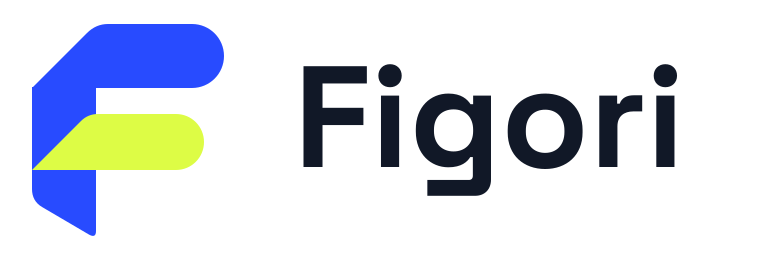
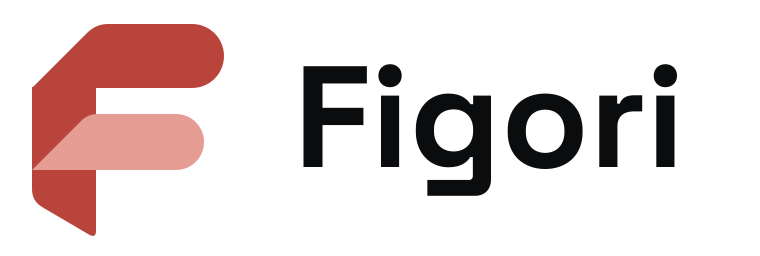
docs: refresh repository branding and identify desktop preview

Changed region(s): [[0.0303, 0.0938, 0.3026, 0.9375], [0.3934, 0.25, 0.9079, 0.7812], [0.8474, 0.25, 0.9079, 0.3438]]

diff --git a/assets/brand/generate.ts b/assets/brand/generate.ts
@@ -4,14 +4,14 @@ import { loadSync } from "opentype.js";
 import { join } from "node:path";
 const root = import.meta.dir;
 const font = loadSync(join(root, "fonts/SpaceGrotesk-Bold.otf"));
-const colors = { cobalt: "#284BFF", lime: "#DDFC45", ink: "#111827", paper: "#F7F8FC" };
+const colors = { bg: "#0b0c0d", surface: "#141618", raised: "#1c1f21", recessed: "#101112", tint: "#15100f", ac: "#b8443c", ac2: "#d9776d", ac3: "#e59c92", text: "#e8e6e3" };
 const geometry = [
   "M32 87H96V231Q96 239 88 234L42 207Q32 201 32 189Z",
   "M32 88L87 33Q96 24 108 24H192C209.7 24 224 38.3 224 56S209.7 88 192 88Z",
   "M32 170L81 121Q88 114 98 114H176C191.5 114 204 126.5 204 142S191.5 170 176 170Z",
 ];
 function mark(fills: string[]) { return geometry.map((d,i)=>`<path fill="${fills[i]}" d="${d}"/>`).join(""); }
-const primary = mark([colors.cobalt, colors.cobalt, colors.lime]);
+const primary = mark([colors.ac, colors.ac, colors.ac3]);
 function svg(width: number, height: number, body: string, label: string) {
   return `<svg xmlns="http://www.w3.org/2000/svg" width="${width}" height="${height}" viewBox="0 0 ${width} ${height}" role="img" aria-label="${label}">${body}</svg>\n`;
 }
@@ -20,25 +20,25 @@ function outline(text: string, x: number, y: number, size: number, fill: string)
 }
 async function write(name: string, data: string) { await Bun.write(join(root,name),data); }
 await write("figori-mark.svg",svg(256,256,primary,"Figori folded F"));
-await write("figori-mark-mono.svg",svg(256,256,mark(geometry.map(()=>colors.ink)),"Figori monochrome F"));
-await write("figori-mark-inverse.svg",svg(256,256,mark(geometry.map(()=>colors.paper)),"Figori inverse F"));
-await write("figori-mark-lime.svg",svg(256,256,mark(geometry.map(()=>colors.lime)),"Figori lime F"));
-await write("figori-app.svg",svg(512,512,`<rect width="512" height="512" rx="112" fill="${colors.ink}"/><g transform="translate(76 60) scale(1.4)">${primary}</g>`,"Figori app icon"));
-await write("figori-app-light.svg",svg(512,512,`<rect width="512" height="512" rx="112" fill="${colors.paper}"/><g transform="translate(76 60) scale(1.4)">${primary}</g>`,"Figori light app icon"));
-await write("figori-app-cobalt.svg",svg(512,512,`<rect width="512" height="512" rx="112" fill="${colors.cobalt}"/><g transform="translate(76 60) scale(1.4)">${mark(geometry.map(()=>colors.lime))}</g>`,"Figori high contrast app icon"));
-const word = outline("Figori",0,110,144,colors.ink);
-const wordInverse = outline("Figori",0,110,144,colors.paper);
+await write("figori-mark-mono.svg",svg(256,256,mark(geometry.map(()=>colors.bg)),"Figori monochrome F"));
+await write("figori-mark-inverse.svg",svg(256,256,mark(geometry.map(()=>colors.text)),"Figori inverse F"));
+await write("figori-mark-lime.svg",svg(256,256,mark(geometry.map(()=>colors.ac3)),"Figori light accent F"));
+await write("figori-app.svg",svg(512,512,`<rect width="512" height="512" rx="112" fill="${colors.bg}"/><g transform="translate(76 60) scale(1.4)">${primary}</g>`,"Figori app icon"));
+await write("figori-app-light.svg",svg(512,512,`<rect width="512" height="512" rx="112" fill="${colors.text}"/><g transform="translate(76 60) scale(1.4)">${primary}</g>`,"Figori light app icon"));
+await write("figori-app-cobalt.svg",svg(512,512,`<rect width="512" height="512" rx="112" fill="${colors.surface}"/><g transform="translate(76 60) scale(1.4)">${mark(geometry.map(()=>colors.ac3))}</g>`,"Figori high contrast app icon"));
+const word = outline("Figori",0,110,144,colors.bg);
+const wordInverse = outline("Figori",0,110,144,colors.text);
 await write("figori-wordmark.svg",svg(415,150,word,"Figori"));
 await write("figori-wordmark-inverse.svg",svg(415,150,wordInverse,"Figori"));
 await write("figori-lockup.svg",svg(760,256,primary+`<g transform="translate(294 57)">${word}</g>`,"Figori"));
 await write("figori-lockup-inverse.svg",svg(760,256,primary+`<g transform="translate(294 57)">${wordInverse}</g>`,"Figori"));
-const social = `<rect width="1200" height="630" fill="${colors.cobalt}"/>
-<g transform="translate(68 74) scale(.55)">${mark(geometry.map(()=>colors.lime))}</g>
-${outline("Figori",238,204,144,colors.paper)}
-${outline("Your numbers, in context.",78,340,66,colors.paper)}
-${outline("Write naturally. Calculate precisely.",82,405,36,colors.paper)}
-<rect x="80" y="484" width="580" height="60" rx="30" fill="${colors.lime}"/>
-${outline("Raycast  /  Terminal  /  Omarchy",108,524,28,colors.ink)}
-<g transform="translate(875 336) rotate(-10) scale(.9)">${mark(geometry.map(()=>colors.lime))}</g>`;
-await write("figori-social.svg",svg(1200,630,social,"Figori: numbers with context. Raycast, Terminal and Omarchy."));
-await write("palette.json",JSON.stringify({name:"Figori",colors,displayFont:"Space Grotesk",numericFont:"IBM Plex Mono",nativeUiFonts:"system defaults"},null,2)+"\n");
+const social = `<rect width="1200" height="630" fill="${colors.bg}"/>
+<g transform="translate(68 74) scale(.55)">${mark(geometry.map(()=>colors.ac3))}</g>
+${outline("Figori",238,204,144,colors.text)}
+${outline("Your numbers, in context.",78,340,66,colors.text)}
+${outline("Write naturally. Calculate precisely.",82,405,36,colors.text)}
+<rect x="80" y="484" width="730" height="60" rx="30" fill="${colors.ac3}"/>
+${outline("Desktop  /  Raycast  /  Terminal  /  Omarchy",108,524,28,colors.bg)}
+<g transform="translate(875 336) rotate(-10) scale(.9)">${mark(geometry.map(()=>colors.ac3))}</g>`;
+await write("figori-social.svg",svg(1200,630,social,"Figori: numbers with context. Desktop, Raycast, Terminal and Omarchy."));
+await write("palette.json",JSON.stringify({name:"Figori",paletteSource:"HedRoom",colors,displayFont:"Space Grotesk",numericFont:"IBM Plex Mono",nativeUiFonts:"system defaults"},null,2)+"\n");

diff --git a/docs/branding.md b/docs/branding.md
@@ -2,52 +2,71 @@
 
 **Figori — Your numbers, in context.**
 
-The selected identity combines a folded-worksheet **F**, cobalt, lime, ink and paper. The three-path symbol is flat vector artwork: a vertical fold, a long upper arm and a shorter lime calculation line. Rounded arm ends soften the geometric fold. The primary source is the SVG geometry, not an image-generation reference.
+The folded-worksheet F and Figori name remain the product identity. On 2026-09-17,
+the user requested HedRoom's visual direction: charcoal surfaces, warm off-white
+text and three red accent levels replace the original cobalt/lime palette.
+The three-path vector geometry is unchanged.
 
-## Palette
+## Palette and provenance
+
+Tokens were checked against HedRoom's [brand guide](https://git.oklabs.uk/BeFeast/hedroom/src/commit/dec56d1f74e2bd91c9e76f796ca4d2d2e82a167c/design/brand/BRAND.md),
+[brand sheet](https://git.oklabs.uk/BeFeast/hedroom/src/commit/dec56d1f74e2bd91c9e76f796ca4d2d2e82a167c/design/brand/brand-sheet.html)
+and [product CSS](https://git.oklabs.uk/BeFeast/hedroom/src/commit/dec56d1f74e2bd91c9e76f796ca4d2d2e82a167c/apps/web/src/app/globals.css).
+Figori adopts the palette, not HedRoom's ring-and-dot mark.
 
 | Token | Color | Role |
 | --- | --- | --- |
-| Cobalt | `#284BFF` | Brand surfaces, emphasis and primary actions |
-| Lime | `#DDFC45` | Accent line, high-contrast mark on cobalt, selected highlights |
-| Ink | `#111827` | Body text and dark surfaces |
-| Paper | `#F7F8FC` | Light canvas and inverse text |
+| bg | `#0b0c0d` | Charcoal canvas |
+| surface | `#141618` | Raised surface |
+| raised | `#1c1f21` | Higher surface / hover |
+| recessed | `#101112` | Input wells |
+| tint | `#15100f` | Warm surface |
+| ac | `#b8443c` | Borders, decorative marks; not small text |
+| ac2 | `#d9776d` | Accent labels |
+| ac3 | `#e59c92` | Bright accent / numeric emphasis |
+| text | `#e8e6e3` | Warm off-white body text |
 
-Use ink on paper (16.72:1), paper on cobalt (5.59:1), ink on lime (15.28:1), or lime on cobalt (5.11:1) for text. Ratios use the WCAG sRGB luminance calculation. **Do not use lime text on paper (1.09:1) or cobalt text on ink (2.99:1).** The decorative two-color symbol may sit on paper/ink; it does not replace readable labels or a visible focus indicator. Selection and errors must also have text or shape cues.
+Against bg, ac is about 3.7:1, ac2 6.4:1, ac3 8.9:1 and text 15.7:1.
+Use ac2/ac3 for text; ac is decorative or a non-text boundary.
+Selection and errors also need words or shape cues. HedRoom defines no light
+theme; Figori's retained light asset is a compatibility presentation, not a
+claim that the dark palette can be inverted for accessible UI.
 
-Machine-readable tokens: [palette.json](../assets/brand/palette.json).
+Machine-readable source: [palette.json](../assets/brand/palette.json).
 
-## Assets
+## Assets and compatibility filenames
 
-| Asset | Use |
-| --- | --- |
-| [figori-mark.svg](../assets/brand/figori-mark.svg) | Primary cobalt/lime symbol, transparent canvas |
-| [figori-mark-mono.svg](../assets/brand/figori-mark-mono.svg) | One-color ink reproduction |
-| [figori-mark-inverse.svg](../assets/brand/figori-mark-inverse.svg) | One-color paper reproduction on dark backgrounds |
-| [figori-mark-lime.svg](../assets/brand/figori-mark-lime.svg) | Lime mark on cobalt, including the Omarchy header |
-| [figori-app.svg](../assets/brand/figori-app.svg) | Primary two-color symbol on ink app tile |
-| [figori-app-cobalt.svg](../assets/brand/figori-app-cobalt.svg) | High-contrast lime symbol on cobalt tile, Raycast variant |
-| [figori-app-light.svg](../assets/brand/figori-app-light.svg) | Light-background presentation |
-| [figori-wordmark.svg](../assets/brand/figori-wordmark.svg) | Outlined Space Grotesk Bold wordmark |
-| [figori-lockup.svg](../assets/brand/figori-lockup.svg) | Horizontal symbol + wordmark |
-| [figori-social.png](../assets/brand/figori-social.png) | 1200×630 social preview |
+[figori-mark.svg](../assets/brand/figori-mark.svg) is the primary deep-red F with
+the brighter middle arm. Monochrome/inverse variants use charcoal/off-white.
+[figori-app.svg](../assets/brand/figori-app.svg) places it on a charcoal tile and
+is the canonical desktop app icon source. SVG wordmarks and lockups remain
+outlined, portable artwork. App PNG sizes 16/32/64/128/256/512 live in
+[icons](../assets/brand/icons); [social preview](../assets/brand/figori-social.png)
+is 1200×630.
 
-Inverse wordmark/lockup variants accompany the originals. App PNG sizes: **16, 32, 64, 128, 256 and 512 px** in [icons](../assets/brand/icons). The cobalt-tile variant includes a 512 px adapter asset. Use the symbol alone below 96 px; do not squeeze the wordmark into a small icon.
+Legacy filenames `figori-mark-lime.svg`, `figori-app-cobalt.svg` and
+`figori-cobalt-512.png` are retained for consumers: their colors now follow the
+HedRoom palette. The former lime mark is ac3; the former cobalt tile is the
+raised charcoal surface with an ac3 mark. Filenames do not define active tokens.
+Existing installed adapter assets are updated separately, not by editing this
+canonical source.
 
-Keep at least one stem-width of space around a placed mark when layout permits. SVG canvases include consistent base padding; preserve their aspect ratio. Do not add gradients, shadows, outlines, beveled folds or independent rotations of the three parts. The social composition can rotate the complete decorative mark as one unit. Use supplied outlines for the wordmark instead of retyping it with a substitute font.
+Keep supplied proportions and padding. Do not introduce gradients, beveled folds,
+shadows or independent rotations of the F components. Use the symbol alone for
+small icons; keep the wordmark legible at larger sizes.
 
 ## Typography and native surfaces
 
-- **Display/marketing Latin:** Space Grotesk Bold for names and headlines; regular/medium weights may be used for supporting copy.
-- **Numbers/code in designed marketing material:** IBM Plex Mono, with tabular alignment where appropriate.
-- **Application UI:** keep native Raycast typography, the configured terminal font and Omarchy/system fonts. Do not require custom font installation, fake a DOM editor in Raycast or override user accessibility settings.
-- Preserve Unicode and system fallback fonts for Hebrew/Russian text. Brand fonts are not a reason to replace supported scripts.
+Canonical Figori artwork retains outlined Space Grotesk Bold; adopting HedRoom's
+palette does not replace the Figori name or glyph. The desktop interface can use
+HedRoom's Heebo direction while native Raycast, terminal and Omarchy keep their
+platform typography. Preserve Hebrew/Russian fallback and accessibility settings.
 
-The wordmark is outlined from a pinned upstream [Space Grotesk](https://github.com/floriankarsten/space-grotesk) font. Source/notice are in [fonts/SOURCE.md](../assets/brand/fonts/SOURCE.md) and [fonts/OFL.txt](../assets/brand/fonts/OFL.txt). The application does not load this font. [IBM Plex](https://github.com/IBM/plex) is a typography recommendation; no Plex font is bundled or installed.
+Font provenance and notices: [Space Grotesk source](../assets/brand/fonts/SOURCE.md)
+and [OFL](../assets/brand/fonts/OFL.txt). IBM Plex Mono remains a marketing numeric
+recommendation, not an installed system requirement.
 
 ## Regeneration
-
-Generation is isolated from the application workspace. Bun creates SVGs; librsvg renders the native vector artwork deterministically to PNG:
 
 ```sh
 bun install --cwd assets/brand --frozen-lockfile
@@ -55,10 +74,16 @@ bun run --cwd assets/brand generate
 bun run --cwd assets/brand render
 ```
 
-The renderer command is `rsvg-convert`; changing its version may change antialiasing bytes. The mark has exactly three geometric paths with solid fills. Wordmark/social lettering is converted to paths so output does not depend on fonts installed on the viewing machine.
+Bun generates the flat SVG geometry and outlined lettering. The existing
+`rsvg-convert` renders PNGs; native icon containers are generated from the same
+SVG. No raster recoloring is used. Renderer version changes may alter
+antialiasing bytes.
 
 ## Naming and Numi acknowledgement
 
-Figori is independent, inspired by [Numi](https://numi.app). Keep the acknowledgement and original developer support link visible in the README. Never imply affiliation, endorsement, complete syntax compatibility or that Numi is defective because Figori chooses different calendar semantics.
+Figori is independent, inspired by [Numi](https://numi.app). Preserve the README's
+acknowledgement and original developer support link. Do not imply endorsement
+or complete syntax/numerical compatibility.
 
-The old My Numi name is historical. Internal compatibility identifiers and existing data paths are intentionally retained by the adapters. Visual branding must not change evaluator behavior, `.numi` source, metadata identity, storage paths or legacy command compatibility. Repository redirects/renames are managed separately from this artwork.
+My Numi is the historical working name. Palette changes do not change evaluator
+semantics, .numi bytes, settings identities, data paths or compatibility commands.

diff --git a/README.md b/README.md
@@ -7,7 +7,11 @@
 
 **Your numbers, in context.**
 
-A local-first calculator worksheet for **Raycast, the terminal, and Omarchy**. Write calculations beside your notes; see the date anchor, timezone and currency basis behind the answer.
+A local-first calculator worksheet: write calculations beside your notes and see the date anchor, timezone and currency basis behind the answer.
+
+The **native macOS and Linux desktop app is in preview**, with a continuous worksheet editor. Follow its [implementation and preview status in PR32](https://git.oklabs.uk/BeFeast/figori/pulls/32). This branch also contains the existing Raycast, terminal and Omarchy adapters.
+
+Figori uses a charcoal, warm off-white and coral identity derived from HedRoom. See the [brand guide](docs/branding.md).
 
 ## Inspired by Numi
 
